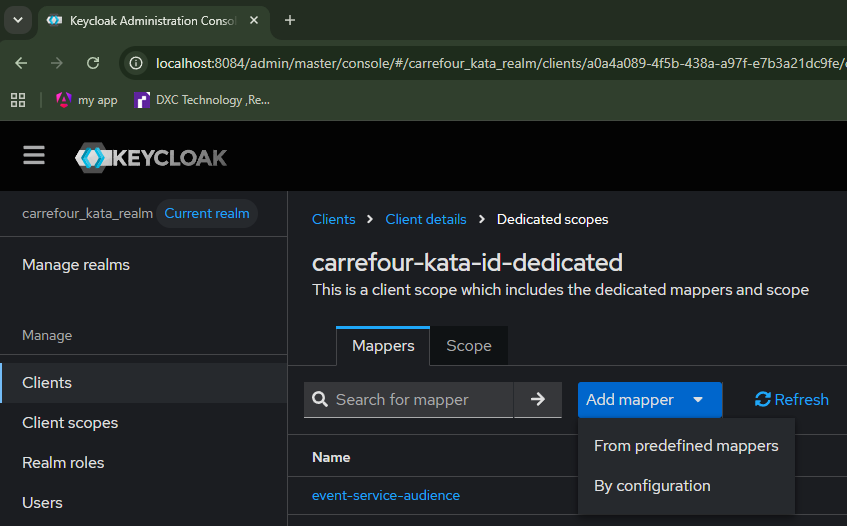
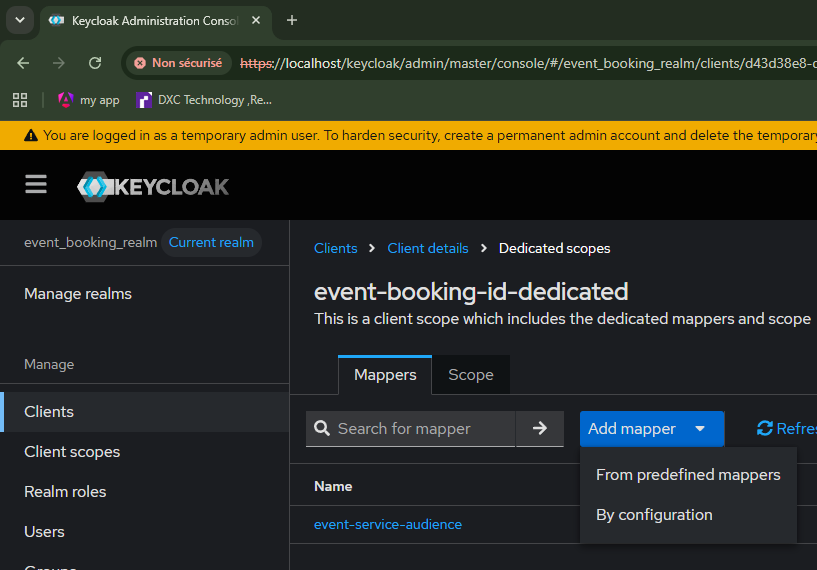
Update README.md

diff --git a/README.md b/README.md
@@ -1,4 +1,4 @@
-# Event Reservation Demo
+# Event Booking Demo
 
 A Dockerized event reservation platform built as a reactive microservices' system.
 
@@ -124,7 +124,7 @@ This is one of the most important configuration details.
 The browser-facing issuer is:
 
 ```text
-https://localhost/keycloak/realms/carrefour_kata_realm
+https://localhost/keycloak/realms/event_booking_realm
 ```
 
 The browser must use the public HTTPS hostname because the authorization flow happens in the user's browser.
@@ -134,13 +134,13 @@ Docker containers, however, must **not** use `localhost` to reach Keycloak: insi
 For internal calls, services use Docker DNS, for example:
 
 ```text
-http://keycloak:8080/keycloak/realms/carrefour_kata_realm/protocol/openid-connect/certs
+http://keycloak:8080/keycloak/realms/event_booking_realm/protocol/openid-connect/certs
 ```
 
 The token issuer still needs to be the public issuer:
 
 ```text
-https://localhost/keycloak/realms/carrefour_kata_realm
+https://localhost/keycloak/realms/event_booking_realm
 ```
 
 This split between the public issuer and internal network endpoints avoids container-routing problems and unnecessary TLS trust problems for internal calls.
@@ -499,24 +499,29 @@ Click on the Manage realms left menu tab, then click on Create realm button:
 Create a realm named:
 
 ```text
-carrefour_kata_realm
+event_booking_realm
 ```
 
 ![Alt text](images/create_realm_popup.png)
 
-Click on the created realm in Manage realms:
+You will be automatically redirected to this new realm that you created as a managed realm, if not,
+click on the created realm in Manage realms:
 
 ![Alt text](images/keycloak_realm_list.png)
 
 The resulting public issuer used by this application is:
 
 ```text
-https://localhost/keycloak/realms/carrefour_kata_realm
+https://localhost/keycloak/realms/event_booking_realm
 ```
+
+The current page should look as follows:
+
+![Alt text](images/current_realm_list.png)
 
 ## 3. Create the application client
 
-After making sure the current realm is "carrefour_kata_realm" in the upper left corner.
+After making sure the current realm is "event_booking_realm" in the upper left corner.
 
 Go to:
 
@@ -531,7 +536,7 @@ Use:
 
 ```text
 Client type: OpenID Connect
-Client ID:   carrefour-kata-id
+Client ID:   event-booking-id
 ```
 
 ![Alt text](images/create_client_1.png)
@@ -559,7 +564,7 @@ Configure:
 
 ```text
 Root URL:
-https://localhost/
+https://localhost
 
 Home URL:
 https://localhost/
@@ -584,7 +589,7 @@ Open:
 
 ```text
 Clients left menu tab
--> carrefour-kata-id in the clients id list
+-> event-booking-id in the clients id list
 -> Credentials tab
 ```
 
@@ -644,26 +649,13 @@ The expected token/user-info data should contain something equivalent to:
 }
 ```
 
-## 7. Create application realm roles
-
-Create the realm roles under the Realm roles left menu tab:
-
-```text
-Realm roles
--> Create Role
-```
-
-![Alt text](images/realm_admin.png)
-
-![Alt text](images/realm_user.png)
-
-## 8. Create application client roles
+## 7. Create application client roles
 
 Create the roles under the application client:
 
 ```text
 Clients
--> carrefour-kata-id
+-> event-booking-id
 -> Roles
 ```
 
@@ -685,7 +677,7 @@ The backend expects the access token to expose client roles under a structure eq
 ```json
 {
   "resource_access": {
-    "carrefour-kata-id": {
+    "event-booking-id": {
       "roles": [
         "user",
         "administrator"
@@ -702,9 +694,9 @@ ROLE_user
 ROLE_administrator
 ```
 
-Keycloak normally supplies client roles through its standard `roles` client scope. If `resource_access.carrefour-kata-id.roles` is missing from the access token, verify the `roles` client scope / client-role mapper before adding custom code in the services.
+Keycloak normally supplies client roles through its standard `roles` client scope. If `resource_access.event-booking-id.roles` is missing from the access token, verify the `roles` client scope / client-role mapper before adding custom code in the services.
 
-## 9. Configure access-token audiences
+## 8. Configure access-token audiences
 
 The downstream services validate that the access token is intended for them.
 
@@ -733,13 +725,13 @@ A working access token therefore contains audiences equivalent to:
 
 ### Add the audience mappers
 
-For the `carrefour-kata-id` client, open its dedicated client scope/mappers area. In Keycloak 26 this is typically:
+For the `event-booking-id` client, open its dedicated client scope/mappers area. In Keycloak 26 this is typically:
 
 ```text
 Clients
--> carrefour-kata-id
+-> event-booking-id
 -> Client scopes
--> carrefour-kata-id-dedicated
+-> event-booking-id-dedicated
 -> Mappers
 ```
 
@@ -753,7 +745,7 @@ Click on configure a new mapper.
 
 ![Alt text](images/scope_audience_mapper.png)
 
-Click on Audience Name and enter:
+Click on the mapper to Audience and enter:
 
 ```text
 Name:                     event-service-audience
@@ -804,6 +796,19 @@ Add to access token:      ON
 
 Adding these values to the **access token** is what matters for resource-server authorization. They do not need to be added to the ID token merely for downstream API authentication.
 
+## 9. Create application realm roles
+
+Create the realm roles under the Realm roles left menu tab:
+
+```text
+Realm roles
+-> Create Role
+```
+
+![Alt text](images/realm_admin.png)
+
+![Alt text](images/realm_user.png)
+
 ## 10. Configure login
 
 Turn Email as username ON.
@@ -825,8 +830,8 @@ Set at least:
 
 ```text
 Email verified turned ON
-Email: user@carrefour.fr or admin@carrefour.fr
-First name / Last name (recommended)
+Email: user@planevent.com
+Name: John Doe
 ```
 
 ![Alt text](images/create_user.png)
@@ -840,10 +845,11 @@ Click on Set password button.
 ![Alt text](images/save_user_pw.png)
 
 Then assign application roles:
+![Alt text](images/assign_user_roles.png)
 
 ```text
 Users
--> <user>
+-> user@planevent.com
 -> Role mapping
 -> Assign role
 -> Client roles
@@ -852,22 +858,18 @@ Users
 Assign:
 
 ```text
-user of client-id carrefour-kata-id
-```
-
-For an administrative test account, also assign:
-
-```text
-administrator of client-id carrefour-kata-id
+user of the client ID event-booking-id
 ```
 
 ![Alt text](images/set_user_role.png)
 
 Then assign realm roles:
 
+![Alt text](images/assign_user_roles.png)
+
 ```text
 Users
--> <user>
+-> user@planevent.com
 -> Role mapping
 -> Assign role
 -> Realm roles
@@ -876,16 +878,75 @@ Users
 Assign:
 
 ```text
-user
+realm_user
 ```
+![Alt text](images/affect_realm_role.png)
 
-For an administrative test account, also assign:
+Create an admin in:
 
 ```text
-administrator
+Users leftmenu tab
+-> Add user button
 ```
 
-![Alt text](images/set_realm_role.png)
+![Alt text](images/user_list.png)
+
+Set at least:
+
+```text
+Email verified turned ON
+Email: admin@planevent.com
+Name: Jane Doe
+```
+
+![Alt text](images/create_admin.png)
+
+Set a password under the user's credentials and make it temporary for local testing.
+
+![Alt text](images/set_admin_pw.png)
+
+Click on Set password button.
+
+![Alt text](images/save_admin_pw.png)
+
+Then assign application roles:
+![Alt text](images/assign_admin_roles.png)
+
+```text
+Users
+-> user@planevent.com
+-> Role mapping
+-> Assign role
+-> Client roles
+```
+
+Assign:
+
+```text
+user of the client ID event-booking-id
+administrator of the client ID event-booking-id
+```
+
+![Alt text](images/set_admin_role.png)
+
+Then assign realm roles:
+![Alt text](images/assign_admin_roles.png)
+
+```text
+Users
+-> admin@planevent.com
+-> Role mapping
+-> Assign role
+-> Realm roles
+```
+
+Assign:
+
+```text
+realm_user
+realm_admin
+```
+![Alt text](images/admin_realm_role.png)
 
 Make sure the user has an email address because the BFF exposes it through `/api/me` and the notification flow depends on user email information being available.
 
@@ -895,8 +956,8 @@ After login, the access token should have the essential characteristics below:
 
 ```json
 {
-  "iss": "https://localhost/keycloak/realms/carrefour_kata_realm",
-  "azp": "carrefour-kata-id",
+  "iss": "https://localhost/keycloak/realms/event_booking_realm",
+  "azp": "event-booking-id",
   "aud": [
     "event-service",
     "reservation-service",
@@ -905,7 +966,7 @@ After login, the access token should have the essential characteristics below:
   ],
   "email": "user@example.com",
   "resource_access": {
-    "carrefour-kata-id": {
+    "event-booking-id": {
       "roles": [
         "user"
       ]
@@ -914,7 +975,7 @@ After login, the access token should have the essential characteristics below:
 }
 ```
 
-An administrator should additionally have `administrator` inside the `carrefour-kata-id` role list.
+An administrator should additionally have `administrator` inside the `event-booking-id` role list.
 
 ---
 
@@ -1041,7 +1102,7 @@ The browser should normally use only the public gateway.
 | Reservation API through BFF | `https://localhost/api/reservations` |
 | Payment API through BFF | `https://localhost/api/payments` |
 | Public Keycloak base | `https://localhost/keycloak/` |
-| Public realm issuer | `https://localhost/keycloak/realms/carrefour_kata_realm` |
+| Public realm issuer | `https://localhost/keycloak/realms/event_booking_realm` |
 
 Do not use the Docker-internal service URLs from the browser. Addresses such as:
 
@@ -1201,13 +1262,13 @@ as though `localhost` referred to the Keycloak container.
 Inside Docker, use Keycloak's Docker service name for internal token/JWK calls, for example:
 
 ```text
-http://keycloak:8080/keycloak/realms/carrefour_kata_realm/protocol/openid-connect/certs
+http://keycloak:8080/keycloak/realms/event_booking_realm/protocol/openid-connect/certs
 ```
 
 while preserving the public token issuer:
 
 ```text
-https://localhost/keycloak/realms/carrefour_kata_realm
+https://localhost/keycloak/realms/event_booking_realm
 ```
 
 ## `502 Bad Gateway` from Nginx
@@ -1254,7 +1315,7 @@ Verify that the access token contains:
 ```json
 {
   "resource_access": {
-    "carrefour-kata-id": {
+    "event-booking-id": {
       "roles": [
         "administrator"
       ]
@@ -1263,7 +1324,7 @@ Verify that the access token contains:
 }
 ```
 
-Assign the role as a **client role of `carrefour-kata-id`**, not merely as an unrelated realm/client role.
+Assign the role as a **client role of `event-booking-id`**, not merely as an unrelated realm/client role.
 
 ## Microservice rejects the token because of audience
 
